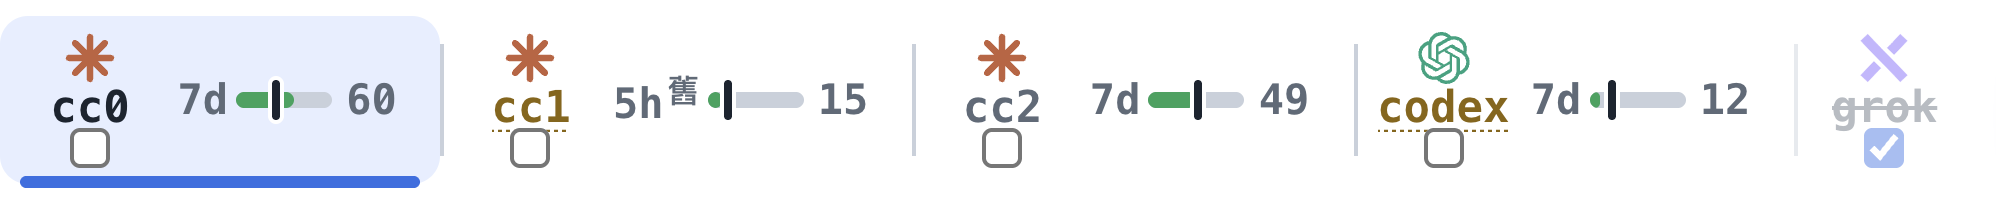
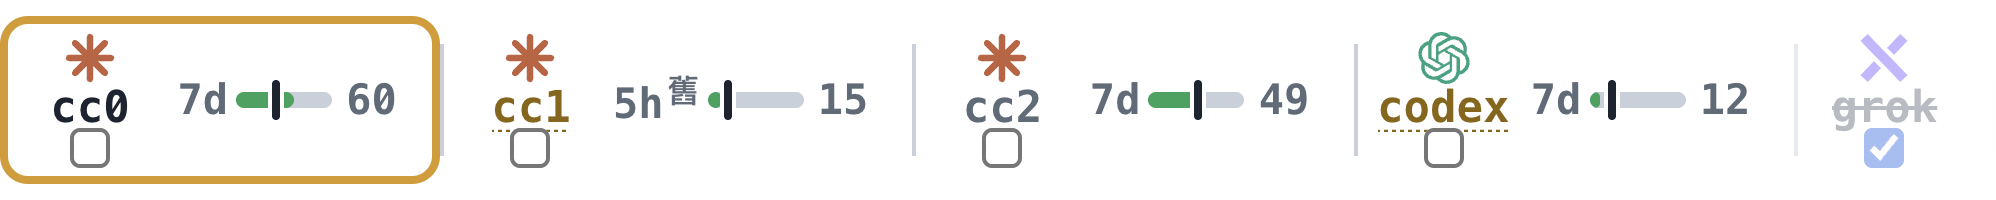
fix(web): 額度列的 focus 改成黃外框——底下的藍線跟額度條（血條）搞混
使用者 2026-09-28：「不要下面藍色條，與血條搞混，黃外框好了」。拿掉 9abab82b 的淡藍底色與 3px 底線，
目前那格只畫一圈黃色圓角外框（outline，limit_hit 的紅框是 border，兩個同時出現各畫各的）。

Changed region(s): [[0.0, 0.06, 0.2174, 0.96]]

diff --git a/web/src/components/quotaStrip.css b/web/src/components/quotaStrip.css
@@ -139,26 +139,14 @@
   background: transparent;
 }
 
-/* 桌機也要標出「畫面在哪顆 bot」（2026-09-21 使用者：桌機板也要同手機板）。底部一條 accent 線＋淡 accent 底色
-   （2026-09-28 使用者：「focus 不夠明顯」——只有細線看不出來）。仍不用邊框：紅框（limit_hit）是邊框，
-   focus 是底色＋底線，兩個同時出現也讀得出來，不會互相蓋。 */
+/* 桌機也要標出「畫面在哪顆 bot」（2026-09-21 使用者：桌機板也要同手機板）。**黃色外框**（2026-09-28 使用者：「focus 不夠明顯」，
+   接著「不要下面藍色條，與血條搞混，黃外框好了」）。用 outline 不用 border：limit_hit 的紅框是 border，兩個同時出現各畫各的。 */
 
 @media (width > 640px) {
   .quota-hp.focused {
-    position: relative;
-    background: var(--accent-soft);
+    outline: 2px solid var(--lamp-yellow);
+    outline-offset: -2px;
     border-radius: 7px;
-  }
-
-  .quota-hp.focused::after {
-    content: '';
-    position: absolute;
-    left: 4px;
-    right: 4px;
-    bottom: -2px;
-    height: 3px;
-    border-radius: 2px;
-    background: var(--accent);
   }
 }
 
